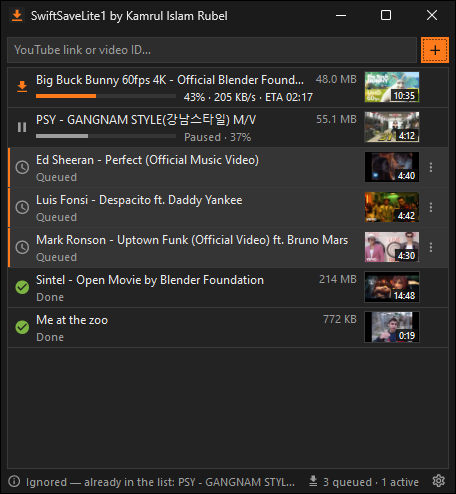
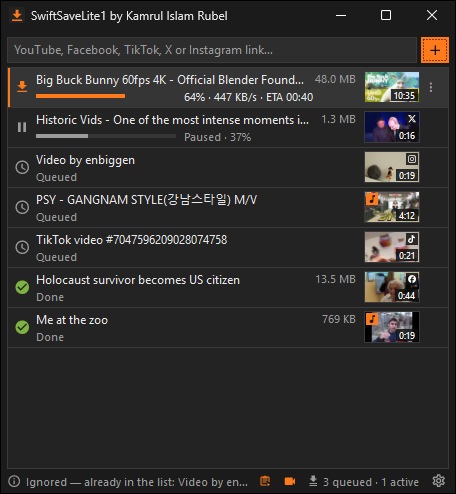
SwiftSaveLite1 0.4.0: user guide and screenshots
Facebook, TikTok, X and Instagram support, video/MP3 toggle,
simultaneous downloads; download link points to the 0.4.0 zip.

Claude-Session: https://claude.ai/code/session_01Q2h7nSczqVFY9r9CfDVoWH

diff --git a/README.md b/README.md
@@ -5,17 +5,17 @@
 <h1 align="center">SwiftSaveLite1</h1>
 
 <p align="center">
-  <b>A compact, portable YouTube downloader for Windows.</b><br />
-  Copy a YouTube link, press <kbd>Ctrl</kbd>+<kbd>V</kbd> and get a 1080p <b>MP4 (H.264 / AAC)</b> file.<br />
+  <b>A compact, portable video downloader for Windows — YouTube, Facebook, TikTok, X (Twitter) and Instagram.</b><br />
+  Copy a link, press <kbd>Ctrl</kbd>+<kbd>V</kbd> and get the best version up to 1080p as <b>MP4 (H.264 / AAC)</b> — or a 320 kbps <b>MP3</b>.<br />
   by <b>Kamrul Islam Rubel</b>
 </p>
 
 <p align="center">
-  <a href="https://github.com/rubeldbc/SwiftSaveLite1-Releases/releases/latest/download/SwiftSaveLite1-0.2.1-win-x64.zip"><img alt="Download" src="https://img.shields.io/badge/Download-SwiftSaveLite1--0.2.1--win--x64.zip-FF7A1A?style=for-the-badge" /></a>
+  <a href="https://github.com/rubeldbc/SwiftSaveLite1-Releases/releases/latest/download/SwiftSaveLite1-0.4.0-win-x64.zip"><img alt="Download" src="https://img.shields.io/badge/Download-SwiftSaveLite1--0.4.0--win--x64.zip-FF7A1A?style=for-the-badge" /></a>
 </p>
 
 <p align="center">
-  <img alt="version" src="https://img.shields.io/badge/version-0.2.1-FF7A1A" />
+  <img alt="version" src="https://img.shields.io/badge/version-0.4.0-FF7A1A" />
   <img alt="platform" src="https://img.shields.io/badge/platform-Windows%2010%20%7C%2011-2D2D2D" />
   <img alt="runtime" src="https://img.shields.io/badge/.NET%20Framework-4.8-512BD4" />
   <img alt="ui" src="https://img.shields.io/badge/UI-WPF%20%2B%20MaterialDesignInXaml%205.3.2-2D2D2D" />
@@ -44,7 +44,7 @@
   - [About window and status bar](#about-window-and-status-bar)
 - [What happens automatically](#what-happens-automatically)
 - [Output files](#output-files)
-- [YouTube bot checks, age limits and cookies](#youtube-bot-checks-age-limits-and-cookies)
+- [Sign-in, bot checks, age limits and cookies](#sign-in-bot-checks-age-limits-and-cookies)
 - [Files in the app folder](#files-in-the-app-folder)
 - [Configuration reference (settings.xml)](#configuration-reference-settingsxml)
 - [Privacy and network access](#privacy-and-network-access)
@@ -58,12 +58,14 @@
 
 ## Highlights
 
-- **Paste and go** — press <kbd>Ctrl</kbd>+<kbd>V</kbd> anywhere in the window. One link, many links, links glued together or mixed with other text: every YouTube video on the clipboard is queued.
-- **Smart Download** — on by default: every YouTube link you copy anywhere in Windows (browser, chat, e-mail) is queued automatically.
-- **Always MP4** — up to **1920×1080**, H.264 video + AAC audio, plays everywhere. VP9 / AV1 / WebM sources are converted with ffmpeg.
+- **Five sites** — YouTube, Facebook, TikTok, X (Twitter) and Instagram: videos, reels, shorts and posts, including share links such as `fb.watch`, `vm.tiktok.com` and `t.co`.
+- **Paste and go** — press <kbd>Ctrl</kbd>+<kbd>V</kbd> anywhere in the window. One link, many links, links glued together or mixed with other text: every supported video on the clipboard is queued.
+- **Smart Download** — on by default: every supported link you copy anywhere in Windows (browser, chat, e-mail) is queued automatically.
+- **Full HD first** — on every site the best version up to 1920×1080 is taken (vertical videos: up to 1080×1920).
+- **MP4 video or MP3 audio** — one click on the status-bar icon switches new links between video (MP4 up to **1920×1080**, H.264 + AAC, plays everywhere; VP9 / AV1 / WebM sources are converted) and audio only (**MP3 320 kbps** with title, artist and cover art).
 - **Playlists** — paste a playlist link and its videos (up to 500) are queued.
 - **Rich list** — the original title right away, a thumbnail with the video length, size, progress bar, percent, speed and ETA.
-- **A queue that behaves** — one download at a time by default; start any video immediately (up to 5 at once); pause, resume, retry, cancel; pause all / resume all.
+- **A queue that behaves** — one download at a time by default, or up to 5 at once (Settings, applies immediately); start any video right away; pause, resume, retry, cancel; pause all / resume all.
 - **Multi-select** — <kbd>Shift</kbd> / <kbd>Ctrl</kbd> + click, then remove, delete files, copy links, retry, pause or resume the whole selection.
 - **Survives closing** — partial downloads survive closing the app, a crash or a reboot and continue on the next start.
 - **Duplicate protection** — a link already in the list, or a video already in the download folder, is ignored with a short message.
@@ -91,12 +93,12 @@
 | Operating system | Windows 11 or Windows 10, 64-bit |
 | Runtime | .NET Framework 4.8 — built into Windows 11 and current Windows 10; nothing to install |
 | Disk space | ≈ 10 MB for the app, ≈ 220 MB for the tools (yt-dlp 17 MB, ffmpeg 103 MB, deno 97 MB), plus your videos |
-| Network | Internet access to YouTube, GitHub and gyan.dev (see [Privacy and network access](#privacy-and-network-access)) |
+| Network | Internet access to the video sites, GitHub and gyan.dev (see [Privacy and network access](#privacy-and-network-access)) |
 | Rights | A normal user account; the app folder must be writable |
 
 ## Download & install
 
-1. Download **[`SwiftSaveLite1-0.2.1-win-x64.zip`](https://github.com/rubeldbc/SwiftSaveLite1-Releases/releases/latest/download/SwiftSaveLite1-0.2.1-win-x64.zip)** — or pick any version on the [Releases](https://github.com/rubeldbc/SwiftSaveLite1-Releases/releases) page.
+1. Download **[`SwiftSaveLite1-0.4.0-win-x64.zip`](https://github.com/rubeldbc/SwiftSaveLite1-Releases/releases/latest/download/SwiftSaveLite1-0.4.0-win-x64.zip)** — or pick any version on the [Releases](https://github.com/rubeldbc/SwiftSaveLite1-Releases/releases) page.
 2. Unzip it into a folder you can write to, e.g. `D:\Apps\SwiftSaveLite1` (not `C:\Program Files`).
 3. Run **`SwiftSaveLite1.exe`**.
 
@@ -109,9 +111,9 @@
 ## Quick start
 
 1. Start `SwiftSaveLite1.exe`. On the first start the status bar shows the tools being downloaded, e.g. *"Downloading ffmpeg… 42 % · 3.2 MB/s · ETA 00:31"* (about 2–3 minutes).
-2. Copy a YouTube link in your browser.
-3. With Smart Download on (default) it is queued at once. Otherwise click the SwiftSaveLite1 window and press <kbd>Ctrl</kbd>+<kbd>V</kbd>.
-4. The finished MP4 is in `%USERPROFILE%\Downloads\SwiftSaveLite1`. Double-click the item to play it.
+2. Copy a YouTube, Facebook, TikTok, X or Instagram link in your browser or app.
+3. With Smart Download on (default) it is queued at once — even while the tools are still downloading on the first start, and also a link you copied before starting the app. Otherwise click the SwiftSaveLite1 window and press <kbd>Ctrl</kbd>+<kbd>V</kbd>.
+4. The finished MP4 (or MP3 in audio mode) is in `%USERPROFILE%\Downloads\SwiftSaveLite1`. Double-click the item to play it.
 
 ## Using SwiftSaveLite1
 
@@ -119,25 +121,43 @@
 
 | Way | How |
 |---|---|
-| **Ctrl+V** | Click the window and press <kbd>Ctrl</kbd>+<kbd>V</kbd>. The empty list reminds you: *"Just copy YouTube link and press Ctrl+V here"*. |
-| **Right-click → Paste YouTube link** | On the empty list, on any item and on the status bar. |
-| **Smart Download** | Copy a link anywhere in Windows; it is queued automatically (orange clipboard icon in the status bar while on). Text the app copies itself (**Copy link**) is ignored. |
+| **Ctrl+V** | Click the window and press <kbd>Ctrl</kbd>+<kbd>V</kbd>. The empty list reminds you: *"Just copy a video link and press Ctrl+V here"*, with the icons of the supported sites. |
+| **Right-click → Paste video link** | On the empty list, on any item and on the status bar. |
+| **Smart Download** | Copy a link anywhere in Windows; it is queued automatically (orange clipboard icon in the status bar while on). A link already on the clipboard when the app starts is queued too, unless Smart Download already queued it in an earlier session. Links copied while the tools are still downloading are queued as soon as they are ready. Copying the same link again later tries again. Text the app copies itself (**Copy link**) is ignored. |
 | **Paste box** | Turn on **⚙ Settings → Show paste box** to get a link box with a **+** button; <kbd>Enter</kbd> adds the link. Pasting several links into the box queues all of them. |
 
-Several links at once work everywhere: separated by spaces, commas or new lines, mixed with other text, or glued together (`…watch?v=AAAAAAAAAAAhttps://youtu.be/BBBBBBBBBBB`). Each video id is extracted, a clean link `https://www.youtube.com/watch?v=<id>` is built and queued, and the original title appears within a moment.
+### Video or audio
+
+The icon left of the counts in the status bar decides what **newly added** links download as. Click it to switch:
+
+| Icon | Mode | Output |
+|---|---|---|
+| 🎥 video camera | **Video + audio** (default) | MP4, H.264 video + AAC audio, up to 1080p |
+| 🎵 music note | **Audio only** | MP3, 320 kbps, with title / artist tags, chapters and the thumbnail as cover art |
+
+Items already in the list keep their format; audio items show a small orange ♪ badge on the thumbnail. The same video can be in the list twice — once as MP4 and once as MP3. The mode is remembered in `settings.xml`.
+
+Several links at once work everywhere: separated by spaces, commas or new lines, mixed with other text, or glued together (`…watch?v=AAAAAAAAAAAhttps://youtu.be/BBBBBBBBBBB`). Each post is recognised, a clean link is built and queued (tracking parameters such as `?si=`, `?igsh=` or `?is_from_webapp=` are dropped), and the title appears within a moment.
 
 ### Supported links
 
-| Kind | Examples |
+| Site | Examples |
 |---|---|
-| Watch pages | `https://www.youtube.com/watch?v=ID`, `youtube.com/watch?v=ID&t=42s`, `m.youtube.com/…`, `music.youtube.com/…`, `watch?feature=share&v=ID` |
-| Short links | `https://youtu.be/ID`, `youtu.be/ID?si=…&t=5` |
-| Shorts, live, embeds | `/shorts/ID`, `/live/ID`, `/embed/ID`, `/v/ID`, `/e/ID`, `youtube-nocookie.com/embed/ID`, `attribution_link?…` |
-| Bare video id | `aqz-KE-bpKQ` (11 characters on its own line) |
-| Playlists | `youtube.com/playlist?list=PL…`, `watch?list=PL…`, `/embed/videoseries?list=PL…` — up to 500 videos are queued |
-| Video inside a playlist | `watch?v=ID&list=PL…` downloads only that video |
+| **YouTube** — watch pages | `https://www.youtube.com/watch?v=ID`, `youtube.com/watch?v=ID&t=42s`, `m.youtube.com/…`, `music.youtube.com/…`, `watch?feature=share&v=ID` |
+| YouTube — short links | `https://youtu.be/ID`, `youtu.be/ID?si=…&t=5` |
+| YouTube — Shorts, live, embeds | `/shorts/ID`, `/live/ID`, `/embed/ID`, `/v/ID`, `/e/ID`, `youtube-nocookie.com/embed/ID`, `attribution_link?…` |
+| YouTube — bare video id | `aqz-KE-bpKQ` (11 characters on its own line) |
+| YouTube — playlists | `youtube.com/playlist?list=PL…`, `watch?list=PL…`, `/embed/videoseries?list=PL…` — up to 500 videos are queued; `watch?v=ID&list=PL…` downloads only that video |
+| **Facebook** | `facebook.com/watch/?v=ID`, `facebook.com/PAGE/videos/ID/`, `facebook.com/reel/ID`, `video.php?v=ID`, `facebook.com/PAGE/posts/ID`, `groups/…/permalink/ID/`, `story.php?story_fbid=…`, share links `fb.watch/CODE/`, `facebook.com/share/v/CODE/`, `/share/r/CODE/` (also `m.`, `web.` and language sub-domains) |
+| **TikTok** | `tiktok.com/@user/video/ID`, `tiktok.com/embed/v2/ID`, share links `vm.tiktok.com/CODE/`, `vt.tiktok.com/CODE/`, `tiktok.com/t/CODE/` |
+| **X / Twitter** | `x.com/user/status/ID`, `twitter.com/user/status/ID`, `mobile.twitter.com/…`, `…/status/ID/video/1`, `fxtwitter.com` / `vxtwitter.com` / `fixupx.com` links, short links `t.co/CODE` |
+| **Instagram** | `instagram.com/reel/CODE/`, `/reels/CODE/`, `/p/CODE/`, `/tv/CODE/`, `instagram.com/user/reel/CODE/`, `instagr.am/p/CODE/`, share links `instagram.com/share/reel/CODE/` |
 
-Not accepted: channel pages (`/@name`, `/channel/…`), other video sites and look-alike domains (`notyoutube.com`, `youtube.com.evil.example`).
+Share links (`fb.watch`, `vm.tiktok.com`, `t.co`, `facebook.com/share/…`, `instagram.com/share/…`) are opened first to find the real post, so the same video pasted as a share link and as a normal link is recognised as a duplicate. When a share link cannot be opened (for example a Facebook login page) it is queued as it is and yt-dlp follows it.
+
+A post with several videos (an X post, an Instagram carousel) downloads all of them; the files are numbered `… [id]-1.mp4`, `… [id]-2.mp4`.
+
+Not accepted: profiles and channels (`youtube.com/@name`, `tiktok.com/@user`, `instagram.com/user/`, `x.com/user`), hashtags, sounds, stories, X Spaces, photo-only posts, other sites and look-alike domains (`notyoutube.com`, `notfacebook.com`, `tiktok.com.evil.example`).
 
 ### The download list
 
@@ -147,11 +167,13 @@ Each row shows a status icon, the title, a detail line, the size, a thumbnail wi
 |---|---|
 | *Queued* | Waiting for its turn |
 | *35 % · 328 KB/s · ETA 01:38* | Downloading (orange progress bar) |
-| *Converting to MP4…* | ffmpeg is converting a non-H.264 source |
+| *Converting to MP4…* / *Converting to MP3…* | ffmpeg is converting a non-H.264 source / extracting the MP3 |
 | *Paused · 37 %* | Paused; the partial file is kept |
 | *Done* | Finished; double-click to play |
 | *Video unavailable*, *Private video*, … | Failed, with the reason |
 | *Retry in 01:57 · YouTube bot check* | Waiting for an automatic retry; **Retry** skips the wait |
+| *Instagram requires sign-in for this post …* | The site shows this post only to signed-in users — see [cookies](#sign-in-bot-checks-age-limits-and-cookies) |
+| *No video in this post* | The post has no video (text or photos only) |
 | *File missing* | The finished file was moved or deleted outside the app |
 
 The list is saved to `downloads.xml` and restored on the next start with every item's last status; interrupted downloads continue. With **Delete automatically from download list** on (default) only the **5** most recent finished downloads stay in the list — their files stay on disk.
@@ -164,7 +186,7 @@ The list is saved to `downloads.xml` and restored on the next start with every i
 | Double-click a downloading item | Pause it |
 | Double-click a queued, paused or failed item | Start downloading it now |
 | Right-click an item, or click **⋮** | Item menu (below) |
-| Right-click the empty list or the status bar | Paste YouTube link · Pause all · Resume all · Remove all from list |
+| Right-click the empty list or the status bar | Paste video link · Pause all · Resume all · Remove all from list |
 | <kbd>Ctrl</kbd>+<kbd>V</kbd> | Add the links on the clipboard |
 | <kbd>Del</kbd> | Remove the selected item from the list |
 | <kbd>Shift</kbd>+click / <kbd>Ctrl</kbd>+click | Select a range / add or remove one item |
@@ -183,7 +205,7 @@ The list is saved to `downloads.xml` and restored on the next start with every i
 | Remove from list | Remove the entry (not while it is downloading); the file stays |
 | Delete file | Move the finished file to the **Recycle Bin** |
 | Copy link | Copy the link — several selected items give one link per line |
-| Paste YouTube link | Add the links on the clipboard |
+| Paste video link | Add the links on the clipboard |
 | Pause all downloads | Pause every queued and running download |
 | Resume all downloads | Queue every paused, failed or cancelled download again |
 | Remove all from list | Clear the list; asks for confirmation when a download is running |
@@ -192,7 +214,7 @@ Remove from list, Delete file, Copy link, Retry, Pause and Resume act on **all s
 
 ### Several downloads at once
 
-The queue downloads **one video at a time** in the order the links were added. **Retry**, or a double-click on a queued, paused or failed item, starts that video **right away** next to the running one. At most **5** downloads run at the same time; beyond that the video goes to the front of the queue.
+The queue downloads **one video at a time** by default, in the order the links were added. **⚙ Settings → Simultaneous downloads** (1–5) lets it run more at once; the change applies immediately — raising it starts queued videos right away, lowering it puts the newest extra downloads back at the front of the queue (they continue from their partial files). **Retry**, or a double-click on a queued, paused or failed item, starts that video **right away** next to the running ones. At most **5** downloads run at the same time; beyond that the video goes to the front of the queue.
 
 ### Settings
 
@@ -200,11 +222,12 @@ Click **⚙** at the right end of the status bar.
 
 | Setting | Default | Effect |
 |---|---|---|
-| Download folder | `%USERPROFILE%\Downloads\SwiftSaveLite1` | Where MP4 files are saved. 📂 chooses a folder, ↗ opens it in Explorer. The folder is checked for write access. |
-| Smart Download | **On** | Queue YouTube links copied anywhere in Windows |
+| Download folder | `%USERPROFILE%\Downloads\SwiftSaveLite1` | Where MP4 / MP3 files are saved. 📂 chooses a folder, ↗ opens it in Explorer. The folder is checked for write access. |
+| Smart Download | **On** | Queue YouTube, Facebook, TikTok, X and Instagram links copied anywhere in Windows |
 | Show paste box | Off | Show the link box and **+** button above the list |
 | Close to system tray | **On** | The window's **×** hides the app to the tray instead of exiting |
 | Delete automatically from download list | **On**, keep **5** | Keep only the N most recent finished downloads in the list (0–9999); files are never deleted |
+| Simultaneous downloads | **1** | How many downloads the queue runs at the same time (1–5); applies immediately, also to running downloads |
 
 Changes are saved immediately to `settings.xml`.
 
@@ -220,20 +243,20 @@ On Windows 11 new tray icons appear under the **^** (show hidden icons) arrow; d
 
 ### About window and status bar
 
-- **ⓘ** at the left of the status bar opens **About**: author, phone, Facebook link, app version, .NET and MaterialDesignInXaml versions, installed yt-dlp / ffmpeg / deno versions, output format, data files and the app folder.
+- **ⓘ** at the left of the status bar opens **About**: author, phone, Facebook link, app version, .NET and MaterialDesignInXaml versions, installed yt-dlp / ffmpeg / deno versions, output formats, data files and the app folder. Click the **app icon** in About to open the app folder in Explorer with `SwiftSaveLite1.exe` selected.
 - When idle the status bar shows **Click to contact author +8801760002332** (orange on hover), which opens [facebook.com/rubel.social](https://www.facebook.com/rubel.social/).
 - Otherwise it shows short messages such as *"Ignored — already in the list: …"*, *"Moved to Recycle Bin: …"* or tool download progress. Errors are red; clicking a failed tool download retries it.
-- On the right: the Smart Download icon, the counts (*"3 queued · 1 active"*) and the settings button.
+- On the right: the Smart Download icon, the video / audio toggle, the counts (*"3 queued · 1 active"*) and the settings button.
 
 ## What happens automatically
 
 | When | What |
 |---|---|
 | First start | yt-dlp, ffmpeg (only `ffmpeg.exe` is taken from the zip) and deno are downloaded into `tools\` with progress, speed and ETA. Failed downloads are retried; clicking the status text retries by hand. |
-| A video is queued | The title comes from YouTube's oEmbed service, the length from yt-dlp metadata and the thumbnail from `i.ytimg.com`. |
-| A download finishes | The file is checked with ffmpeg; anything that is not H.264 + AAC in MP4 is converted. Older finished items are trimmed from the list (auto-clean). |
-| A duplicate link arrives | It is ignored with a status message for a few seconds: *already in the list* or *already downloaded* (an MP4 with that video id is in the download folder). |
-| YouTube bot check, HTTP 429 or 403 | An immediate second attempt with more YouTube player clients, then automatic retries after 2 → 5 → 10 → 20 → 30 → 60 minutes (HTTP 403: 30 s → 2 → 5 min), with a countdown in the list. |
+| A video is queued | YouTube: the title comes from YouTube's oEmbed service, the length from yt-dlp metadata and the thumbnail from `i.ytimg.com`. Other sites: title, length and thumbnail come from yt-dlp metadata; the thumbnail shows a small site badge (and the site icon until the image has loaded). |
+| A download finishes | The file is checked with ffmpeg; anything that is not H.264 + AAC in MP4 (or MP3 for audio items) is converted. Older finished items are trimmed from the list (auto-clean). |
+| A duplicate link arrives | It is ignored with a status message for a few seconds: *already in the list* (same video in the same format) or *already downloaded* (an MP4 / MP3 with that video id is in the download folder). |
+| A site limits your network (bot check, HTTP 429) | Only that site waits — downloads from the other sites keep going. YouTube: an immediate second attempt with more YouTube player clients, then automatic retries after 2 → 5 → 10 → 20 → 30 → 60 minutes (HTTP 403: 30 s → 2 → 5 min), with a countdown in the list. |
 | Network error | Retries after 30 s → 2 min → 5 min. |
 | ≈ 15 s after start, then every 12 h | Checks for newer yt-dlp / ffmpeg / deno (at most every 6 h). A newer tool is downloaded, running downloads are paused, the file is swapped (rolled back on failure) and downloads resume — no dialogs. |
 | The app is closed or crashes mid-download | The partial file is kept; the download continues on the next start. |
@@ -242,22 +265,25 @@ On Windows 11 new tray icons appear under the **^** (show hidden icons) arrow; d
 
 ## Output files
 
-- **Format:** MP4 container, H.264 video, AAC audio.
-- **Quality:** the best stream up to **1080p**, preferring H.264 + M4A so that no conversion is needed. Other codecs are re-encoded with `libx264 -preset veryfast -crf 20`, AAC 160 kbit/s and `+faststart`.
-- **Name:** `<video title> [<video id>].mp4`, with the title shortened to 100 characters.
+- **Format:** video mode — MP4 container, H.264 video, AAC audio; audio mode — MP3, 320 kbit/s, 48 kHz stereo, with title / artist / date tags, chapters and the thumbnail as JPEG cover.
+- **Quality:** on every site the best stream up to **1080p** (resolution counts before codec; for vertical videos the shorter side counts, so 1080×1920 is Full HD), preferring H.264 + M4A so that no conversion is needed. Other codecs (e.g. Facebook's VP9) are re-encoded with `libx264 -preset veryfast -crf 20`, AAC 160 kbit/s and `+faststart`. What a site offers without signing in is sometimes lower: in testing TikTok gave 576×1024 and Instagram 720×1280 at most, Facebook 1080×1080, X up to 1280×720.
+- **Name:** `<video title> [<id>].mp4` (or `.mp3`), with the title shortened to 100 characters. The id is the YouTube video id, or a site-prefixed id for the other sites: `[fb_…]`, `[tt_…]`, `[x_…]`, `[ig_…]`. Posts with several videos add `-1`, `-2`, ….
 - **Sanitising:** `\ / | :` become `-`, `"` becomes `'`, `< > ? *` and control characters are removed, runs of whitespace collapse to one space, leading and trailing dots/spaces are trimmed. Example: `AC/DC: Live?` → `AC-DC- Live [id].mp4`. Titles in any language (Bangla, Korean, …) are kept.
-- **Partial files** (`.part`) sit next to the output and are deleted on cancel.
+- **Partial files** (`.part`) sit next to the output and are deleted on cancel. While an MP3 is being made its files are called `… [id].a.<ext>`, so an MP4 and an MP3 of the same video can download at the same time without touching each other.
+- **Audio source:** the audio track of the post itself (TikTok's separate "music track" is not used, it can be a different recording).
 
-## YouTube bot checks, age limits and cookies
+## Sign-in, bot checks, age limits and cookies
+
+Instagram and Facebook show some posts only to signed-in users (*"requires sign-in for this post"*), and TikTok blocks some posts per region (*"blocks this post for your network or region"*). Instagram also offers Full HD mostly to signed-in users. `cookies.txt` (below) solves the sign-in cases for every site; export the cookies of the site you need.
 
 YouTube sometimes answers a network with **"Sign in to confirm you're not a bot"** or HTTP 429. SwiftSaveLite1 always asks YouTube through the regular **and** the embedded web player (`player_client=default,web_embedded`), which kept 1080p downloads working on a blocked network during testing. If a check still appears it retries at once with `web_embedded,mweb,android,tv`, then waits and retries automatically.
 
 For lasting blocks, **age-restricted** or **members-only** videos, let yt-dlp use the cookies of a signed-in browser:
 
-- **cookies.txt** — export your YouTube cookies in Netscape format with a browser extension and save the file as `cookies.txt` next to `SwiftSaveLite1.exe`. It is picked up automatically.
+- **cookies.txt** — export your cookies (YouTube, Instagram, Facebook, …) in Netscape format with a browser extension and save the file as `cookies.txt` next to `SwiftSaveLite1.exe`. It is picked up automatically.
 - **Browser cookies** — or set `<CookiesFromBrowser>firefox</CookiesFromBrowser>` in `settings.xml` (see below). `edge`, `chrome`, `brave`, `opera` and others work too; Chromium-based browsers may need to be closed first.
 
-> Treat `cookies.txt` like a password — it gives access to your Google account. Never share it.
+> Treat `cookies.txt` like a password — it gives access to your accounts. Never share it.
 
 ## Files in the app folder
 
@@ -300,6 +326,9 @@ Usually changed through **⚙ Settings**. To edit it by hand, exit the app first
   <AutoCleanList>true</AutoCleanList>
   <KeepCompletedCount>5</KeepCompletedCount>            <!-- 0..9999 -->
   <CloseToTray>true</CloseToTray>
+  <SimultaneousDownloads>1</SimultaneousDownloads>      <!-- 1..5 -->
+  <DownloadKind>Video</DownloadKind>                    <!-- Video (MP4) or Audio (MP3) -->
+  <SmartClipboardFingerprint>…</SmartClipboardFingerprint> <!-- hash of the links Smart Download last queued; written by the app -->
 </Settings>
 ```
 
@@ -312,13 +341,15 @@ SwiftSaveLite1 has **no telemetry, no accounts and no ads**. It connects only to
 | Host | Why |
 |---|---|
 | `youtube.com`, `googlevideo.com` (through yt-dlp) | Video information and the video streams |
-| `www.youtube.com/oembed` | Video titles |
-| `i.ytimg.com` | Thumbnails |
+| `facebook.com`, `tiktok.com`, `x.com` / `twitter.com`, `instagram.com` and their video/image servers (through yt-dlp) | Only for links you add: video information, streams and thumbnails |
+| `fb.watch`, `vm.tiktok.com`, `vt.tiktok.com`, `t.co` | Only to open a share link you added (one request per redirect) |
+| `www.youtube.com/oembed` | YouTube video titles |
+| `i.ytimg.com` | YouTube thumbnails |
 | `github.com`, `api.github.com` | yt-dlp and deno downloads and version checks |
 | `www.gyan.dev` | ffmpeg download and version check (fallback: `github.com/yt-dlp/FFmpeg-Builds`) |
 | `www.facebook.com` | Only when you click the contact link |
 
-With Smart Download on, the app reads text copied to the clipboard to look for YouTube links. Nothing leaves your computer except the resulting YouTube requests.
+With Smart Download on, the app reads text copied to the clipboard to look for supported video links. Nothing leaves your computer except the resulting requests to those sites.
 
 ## Troubleshooting / FAQ
 
@@ -335,6 +366,18 @@ The app retries on its own (countdown in the list). Downloading a lot in a short
 </details>
 
 <details>
+<summary><b>"Instagram requires sign-in for this post" / "TikTok blocks this post for your network or region"</b></summary>
+
+Put a `cookies.txt` exported from a browser where you are signed in to that site next to the exe (see [cookies](#sign-in-bot-checks-age-limits-and-cookies)) and use **Retry**. Region blocks can only be avoided from another network.
+</details>
+
+<details>
+<summary><b>"Cannot parse data" (Facebook)</b></summary>
+
+yt-dlp could not read this Facebook post, usually because Facebook changed its page. The app updates yt-dlp automatically; try again later, or copy the video's own link (right-click the video → copy link) instead of the post link.
+</details>
+
+<details>
 <summary><b>"Age-restricted video" or "Members-only video"</b></summary>
 
 These need a signed-in account: use `cookies.txt` or `CookiesFromBrowser`.
@@ -343,13 +386,13 @@ These need a signed-in account: use `cookies.txt` or `CookiesFromBrowser`.
 <details>
 <summary><b>The video is only 360p / 720p</b></summary>
 
-Some videos have no 1080p stream. Occasionally YouTube answers one request with a lower quality — delete the file and use **Retry**.
+Some videos have no 1080p stream, and TikTok, Instagram and X often offer 540p–720p only (Instagram more with a signed-in `cookies.txt`). Occasionally YouTube answers one request with a lower quality — delete the file and use **Retry**.
 </details>
 
 <details>
 <summary><b>I copied a link but nothing happened</b></summary>
 
-Smart Download may be off (⚙ Settings) or the tools may still be downloading. The link may already be in the list, or its MP4 may already be in the download folder — the status bar says so for a few seconds. You can always click the window and press <kbd>Ctrl</kbd>+<kbd>V</kbd>.
+Smart Download may be off (⚙ Settings). The link may already be in the list, or its MP4 / MP3 may already be in the download folder — the status bar says so for a few seconds. Links copied while the tools are still downloading are queued once they are ready. You can always click the window and press <kbd>Ctrl</kbd>+<kbd>V</kbd>.
 </details>
 
 <details>
@@ -386,6 +429,8 @@ The exe is not code-signed and `yt-dlp.exe` is sometimes flagged generically. Al
 
 | Version | Highlights |
 |---|---|
+| **0.4.0** | **Facebook, TikTok, X (Twitter) and Instagram** links — paste, link box and Smart Download; share links (`fb.watch`, `vm.tiktok.com`, `t.co`, …) expanded before queueing; best version up to 1080p on every site; site badge and thumbnails from the posts; per-site error messages (sign-in, region block, no video) and per-site rate-limit waits; MP3 and MP4 of the same video can download at the same time |
+| **0.3.0** | (not released separately — included in 0.4.0) Video / audio toggle in the status bar (MP4 or **MP3 320 kbps** with tags and cover); **Simultaneous downloads** setting (1–5, applied live); Smart Download fix: a link copied before the start or while the tools download on the first start is now queued, and copying the same link again works; About: click the app icon to open the app folder |
 | **0.2.1** | Close to system tray (default on) with a **Restore** / **Exit** tray menu; tray tooltip with queue counts; a second start restores the hidden window |
 | **0.2.0** | Ctrl+V anywhere and multi-link paste; optional paste box; settings dialog (folder, Smart Download on by default, show paste box, auto-clean keeping the last N); thumbnails with video length; double-click actions; up to 5 downloads started at once; pause all / resume all / remove all; Shift/Ctrl multi-select; duplicate and already-downloaded detection; About window; contact link; tool download speed and ETA; **YouTube bot-check fix** (embedded player client, fallbacks, HTTP 403 handling) |
 | **0.1.0** | First release: link parser and FIFO queue; yt-dlp runner with progress, pause/resume and MP4 conversion; compact grey/orange UI with context menu; Smart Download; silent tool updates; XML persistence; single instance; file-name sanitising; portable package |
@@ -394,17 +439,18 @@ The exe is not code-signed and `yt-dlp.exe` is sometimes flagged generically. Al
 
 | Component | Used for | License |
 |---|---|---|
-| [yt-dlp](https://github.com/yt-dlp/yt-dlp) | Downloading from YouTube (fetched on first start) | Unlicense |
+| [yt-dlp](https://github.com/yt-dlp/yt-dlp) | Downloading from YouTube, Facebook, TikTok, X and Instagram (fetched on first start) | Unlicense |
 | [FFmpeg](https://ffmpeg.org) — [gyan.dev essentials build](https://www.gyan.dev/ffmpeg/builds/) | Merging and converting to MP4 (fetched on first start) | GPL v3 (this build) |
 | [Deno](https://deno.com) | JavaScript runtime yt-dlp needs for YouTube (fetched on first start) | MIT |
 | [MaterialDesignInXamlToolkit](https://github.com/MaterialDesignInXAML/MaterialDesignInXamlToolkit) 5.3.2 | UI styles and icons | MIT |
 | [Microsoft.Xaml.Behaviors.Wpf](https://github.com/microsoft/XamlBehaviorsWpf) | Dependency of MaterialDesignThemes | MIT |
+| [Simple Icons](https://simpleicons.org) | Facebook, TikTok, X and Instagram glyphs (`Styles/SiteIcons.xaml`) | CC0-1.0 (brand marks belong to their owners) |
 
 The tools are not included in the zip; the app downloads them from their official release locations.
 
 ## Disclaimer
 
-SwiftSaveLite1 is meant for downloading videos you are allowed to download — your own uploads, openly licensed videos, or content whose rights holder permits it. Respect YouTube's Terms of Service and the copyright law of your country. The author is not responsible for misuse.
+SwiftSaveLite1 is meant for downloading videos you are allowed to download — your own uploads, openly licensed videos, or content whose rights holder permits it. Respect the Terms of Service of YouTube, Facebook, TikTok, X and Instagram and the copyright law of your country. The author is not responsible for misuse.
 
 ## Author and contact
 
